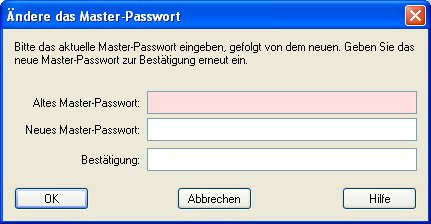
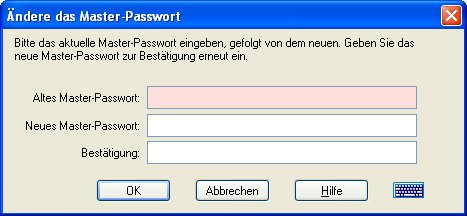
German help file for 3.18

diff --git a/pwsafe/pwsafe/help/pwsafeDE/html/entering_pwd.html b/pwsafe/pwsafe/help/pwsafeDE/html/entering_pwd.html
@@ -11,7 +11,15 @@
 <object id="popup" type="application/x-oleobject" classid="clsid:adb880a6-d8ff-11cf-9377-00aa003b7a11"> </object>
 <!-- Popup Source File -->
 <h2>Benutzernamen, Passw&ouml;rter und Gruppen</h2>
-<img alt="Eintrag bearbeiten" src="images/edit_view_entry.jpg">
+<p>Die Eingabe von Benutzernamen, Passw&ouml;rter und Gruppen, zusammen mit den dazugeh&ouml;rigen Parametern, erfolgt &uuml;ber mehrere Reiter:
+<ul>
+  <li><i>Basis</i></li>
+  <li><i>Zus&auml;tzlich</i></li>
+  <li><i>Datum und Uhrzeit</i></li>
+  <li><i>Passwortrichtlinie</i></li>
+</ul>
+Die wichtigsten Elemente sind im <b>Reiter <i>Basis</i></b> zusammengefasst.</p>
+<img alt="Eintrag bearbeiten: Basis" src="images/edit_view_entry_base.jpg">
 <p>Folgende Informationselemente geh&ouml;ren zu jedem Passworteintrag:</p>
 <ul>
   <li><b>Gruppe</b>: ein Name zum Zusammenfassen aller artverwandten Eintr&auml;ge</li>
@@ -19,10 +27,9 @@
   <li><b>Benutzername</b>: der eigentliche Benutzername</li>
   <li><b>Passwort</b>: das dazugeh&ouml;rige Passwort</li>
   <li><b>Notizen</b>: allgemeine Notizen zu diesem Eintrag</li>
+  <li><small>Nur das <b>Titel</b>- und das <b>Passwort</b>feld sind Pflichtfelder. Alle anderen sind optional.</small></li>
 </ul>
-Zus&auml;tzlich k&ouml;nnen noch folgende Felder verwendet werden (sichtbar nach Dr&uuml;cken der Taste "Mehr &gt;&gt;"):<br>
-<br>
-<img alt="Extra Felder" src="images/edit_view_entry_more.jpg"><br>
+<p>In diesem Reiter kann auch die URL eingestellt werden:</p>
 <ul>
   <li><b>URL:</b> Die URL die sich auf diesen Eintrag bezieht. Wenn dieses Feld nicht leer ist, dann ist die "Gehe zu" Option aktiviert.
 Wenn kein Protokoll angegeben ist, wird "http://" angenommen (z.B. "www.foo.net" ist gleich mit "http://www.foo.net").
@@ -30,59 +37,63 @@ Der nachstehende Hinweis beschreibt die Funktionsweise in allen Einzelheiten.</l
   <li><b>Los:</b> Vorausgesetzt das Feld URL ist nicht leer, bewirkt ein Dr&uuml;cken dieser Taste das der Browser zu der eingegebenen Adresse geht. Wenn Sie die Taste <i>Los</i> zusammen mit der Strg Taste dr&uuml;cken, wird nach dem &Ouml;ffnen des Browsers auch die Autom.Eingabe ausgef&uuml;hrt.</li>
 </ul>
 <hr>
-<ul>
-  <small><b>Die nachfolgenden Hinweise beschreiben das Verhalten der URL-Eingabe genauer:</b></br>
-  </small><li><small>Standardm&auml;&szlig;ig wird <b>Password Safe</b> den Browser verwenden, welchen Ihr PC in der Regel zum &ouml;ffnen von Internetseiten hernimmt. Wenn erw&uuml;nscht, k&ouml;nnen Sie einen <i>alternativen Browser</i> angeben durch Angabe von '[alt]' in eckigen Klammern vor der URL, z.B. "[alt]http://www.foo.net". Dies ist n&uuml;tzlich, wenn der Standardbrowser Firefox ist, und Sie w&uuml;nschen aber auf eine Seite zuzugreifen, die am besten mit dem Internet Explorer funktioniert. Den alternativen Browser k&ouml;nnen Sie konfigurieren im <b><a href="misc_tab.html#AltBrowser">Verwalten-&gt;Optionen-&gt;Verschiedenes</a></b> Fensterdialog.</small></li>
-  <li><small>Sie k&ouml;nnen auch eine Emailadresse wie z.B. mailto:josef@irgendwo.com f&uuml;r die URL festlegen. In diesem Falle w&uuml;rde die Standardmailanwendung aufgerufen werden mit der "Gehe zu" Aktion.</small></li>
-  <li><small>Wenn '{alt}' in geschweiften Klammern vor der URL gesetzt wird, dann wird es 'wie-es-ist' dem alternativen Browser &uuml;bergeben, ohne dass 'http://' hinzugef&uuml;gt wird, wenn kein Protokoll definiert ist. Die ist dann sinnvoll, wenn der alternative Browser eine Anwendung mit Fernzugriff ist, z.B. ein SSH Client. [ssh] w&uuml;rde denselben Effekt haben.<br></small></li>
-  <li><small>Wenn '[autotype]' vor der URL steht, wird Password Safe nach der Anzeige und Aktivierung des Browsers die Funktion Autom.Eingabe ausf&uuml;hren. Wenn im Feld Autom.Eingabe nichts eingegeben ist, wird der standardm&auml;&szlig;ige Wert eingesetzt.<br></small></li>
-</ul>
+<ul><small>
+  <b>Die nachfolgenden Hinweise beschreiben das Verhalten der URL-Eingabe genauer:</b>
+  <li>Standardm&auml;&szlig;ig wird <b>Password Safe</b> den Browser verwenden, welchen Ihr PC in der Regel zum &ouml;ffnen von Internetseiten hernimmt. Wenn erw&uuml;nscht, k&ouml;nnen Sie einen <i>alternativen Browser</i> angeben durch Angabe von '[alt]' in eckigen Klammern vor der URL, z.B. "[alt]http://www.foo.net". Dies ist n&uuml;tzlich, wenn der Standardbrowser Firefox ist, und Sie w&uuml;nschen aber auf eine Seite zuzugreifen, die am besten mit dem Internet Explorer funktioniert. Den alternativen Browser k&ouml;nnen Sie konfigurieren im Dialogfenster <b><a href="misc_tab.html#AltBrowser">Verwalten-&gt;Optionen-&gt;Verschiedenes</a></b>.</li>
+  <li>Sie k&ouml;nnen auch eine Emailadresse wie z.B. mailto:josef@irgendwo.com f&uuml;r die URL festlegen. In diesem Falle w&uuml;rde die Standardmailanwendung aufgerufen werden mit der "Gehe zu" Aktion.</li>
+  <li>>Wenn '{alt}' in geschweiften Klammern vor der URL gesetzt wird, dann wird es 'wie-es-ist' dem alternativen Browser &uuml;bergeben, ohne dass 'http://' hinzugef&uuml;gt wird, wenn kein Protokoll definiert ist. Die ist dann sinnvoll, wenn der alternative Browser eine Anwendung mit Fernzugriff ist, z.B. ein SSH Client. [ssh] w&uuml;rde denselben Effekt haben.<br></li>
+  <li>Wenn '[autotype]' vor der URL steht, wird Password Safe nach der Anzeige und Aktivierung des Browsers die Funktion Autom.Eingabe ausf&uuml;hren. Wenn im Feld Autom.Eingabe nichts eingegeben ist, wird der standardm&auml;&szlig;ige Wert eingesetzt.<br></li>
+</small></ul>
 <hr>
+<h3>Reiter <i>Zus&auml;tzlich</i></h3>
+<img alt="Eintrag bearbeiten: Zus&auml;tzlich" src="images/edit_view_entry_add.jpg">
 <ul>
-  <li><b>Autom. Eingabe:</b> Wenn dieses Feld nicht leer ist, wird dessen Inhalt den standardm&auml;&szlig;igen Inhalt f&uuml;r das 'automatische Eingeben' ersetzen.
-F&uuml;r mehr Information, siehe Hilfe zu "<a href="autotype.html">Autom. Eingabe</a>".</li>
+  <li><b>Autom. Eingabe:</b> Wenn dieses Feld nicht leer ist, wird dessen Inhalt den standardm&auml;&szlig;igen Inhalt f&uuml;r das 'automatische Eingeben' ersetzen. F&uuml;r mehr Information, siehe Hilfe zu "<a href="autotype.html">Autom. Eingabe</a>".</li>
   <li><b>Ausf&uuml;hren:</b> Wenn dieses Feld nicht leer ist, wird dessen Inhalt bei der Aktion 'Ausf&uuml;hren' als Kommando dem Betriebssystem &uuml;bergeben. Es k&ouml;nnen Variablen mit &uuml;bergeben werden. F&uuml;r mehr Information, siehe Hilfe zu "<a href="execute_string.html">Ausf&uuml;hren</a>".</li>
-  <li><b>Datum/Zeit Information:</b> Dieses NUR-Lesen Feld h&auml;lt die Information des gew&auml;hlten Eintrages zum Erstellzeitpunkt, zuletzt zugegriffen, usw. auf dem Laufenden. Diese Information wird im Fenster Eintrag Einf&uuml;gen nicht angezeigt.
+  <li><b>Doppelklick-Aktion:</b></li> Dies erlaubt es festzulegen welche Aktion <b>Password Safe</b> ausf&uuml;hrt, wenn Sie ein Doppelklick auf diesem Eintrag ausf&uuml;hren. Standardm&auml;&szlig;ig wird die im Dialog <a href="misc_tab.html">Verwalten-&gt;Optionen-&gt;Verschiedenes</a> festgelegte Aktion ausgef&uuml;hrt.</li>
+  <li><b>Passworthistorie:</b> Es ist m&ouml;glich <b>Password Safe</b> so zu konfigurieren, dass es sich die letzten paar Passw&ouml;rter eines Eintrages merkt. Dies kann eingestellt werden beim Erstellen des Eintrages, oder sp&auml;ter wenn Sie diesen Eintrag bearbeiten. Um die j&uuml;ngsten Passw&ouml;rter eines Eintrages zu sehen, oder die Anzahl der Passw&ouml;rter die sich <b>Password Safe</b> merkt zu &auml;ndern, dr&uuml;cken Sie auf die Taste "Passworthistorie". Dies ruft das Dialogfenster <a href="password_history.html">Passworthistorie</a> auf. Dieser Dialog zeigt die fr&uuml;heren Passw&ouml;rter und die Anzahl, wenn vorhanden, an.</li>
+</ul>
+<h3>Reiter <i>Datum und Uhrzeit</i></h3>
+<img alt="Eintrag bearbeiten: Datum und Uhrzeit" src="images/edit_view_entry_date.jpg">
+<ul>
+  <li><b>Passwortablaufdatum:</b> Um das Ablaufdatum eines Passworteintrages zu setzen, geben Sie das gew&uuml;nschte Ablaufdatum an, entweder als absoluter Tag (z.B. "25.01.2009") oder als relativer Tag zu Heute (z.B. "30 Tage") und klicken Sie auf die Taste <i>Setzen</i>. Wenn das Ablaufdatum sich n&auml;hert, wird <b>Password Safe</b> sowohl beim Start melden, dass das Passwort ge&auml;ndert werden soll, als auch den Eintrag mit einer anderen Farbe hinterlegen.<br>
+Wenn "In <i>N</i> Tage" gew&auml;hlt wurde, k&ouml;nnen Sie einen "periodischer" Ablauf bestimmen. Dies bewirkt, dass ein <b>neues</b> Ablaufdatum berechnet wird basierend auf der Anzahl festgelegten Tagen, wenn das Passwort abge&auml;ndert wird. Zum Beispiel: Sie erstellen einen Eintrag am 11ten Januar, und legen periodisch 5 Tage fest. Sie bekommen dann am 16ten Januar eine Ablaufmeldung. Wenn Sie das Passwort am 17ten Januar &auml;ndern, wird das neue Ablaufdatum am 22ten Januar sein (5 Tage nachdem das Passwort gesetzt wurde).</li>
+  <li>Um das Ablaufdatum abzustellen, klicken Sie auf <i>L&ouml;schen</i>.</li>
+  <li><b>Datum/Zeit Information:</b> Dieses NUR-Lesen Feld h&auml;lt die Information des gew&auml;hlten Eintrages zum Erstellzeitpunkt, zuletzt zugegriffen, usw. auf dem Laufenden. Diese Information wird im Dialog Eintrag Einf&uuml;gen nicht angezeigt.
 </li>
-  <li><b>Passwort g&uuml;ltig bis:</b> Um das Ablaufdatum eines Passworteintrages zu setzen, klicken Sie auf Taste 'Setzen' and geben Sie das gew&uuml;nschte Ablaufdatum an, entweder als absoluter Tag (z.B.  "25.01.2009") oder als relativer Tag zu Heute (z.B. "30 Tage"). Wenn das Ablaufdatum sich n&auml;hert, wird <b>Password Safe</b> sowohl beim Start melden, dass das Passwort ge&auml;ndert werden soll, als auch den Eintrag mit einer anderen Farbe hinterlegen.<br>
-Wenn "In <i>N</i> Tage" gew&auml;hlt wurde, k&ouml;nnen Sie einen "periodischer" Ablauf bestimmen. Dies bewirkt, dass ein <b>neues</b> Ablaufdatum berechnet wird basierend auf der Anzahl festgelegten Tagen, wenn das Passwort abge&auml;ndert wird. Zum Beispiel: Sie erstellen einen Eintrag am 11ten Januar, und legen periodisch 5 Tage fest. Sie bekommen dann am 16ten Januar eine Ablaufmeldung. Wenn Sie das Passwort am 17ten Januar &auml;ndern, wird das neue Ablaufdatum am 22ten Januar sein (5 Tage nachdem das Passwort gesetzt wurde).<br>
-    <br>
-    <div style="text-align: center;"><img alt="Dialog f&uuml;r Ablaufdatum" src="images/entry_expiry.jpg"></div>
-  </li>
-  <li>Um das Ablaufdatum abzustellen, klick auf "L&ouml;schen".</li>
 </ul>
 <div style="margin-left: 40px;">
 <hr><small><b>Hinweis: Password Safe</b> wird <b>nur</b> dann den Benutzer warnen, wenn eine der Passw&ouml;rter abgelaufen ist. Es liegt in der Verantwortung des Benutzers das Passwort zu &auml;ndern.</small>
 <hr></div>
-<p>Nur das Titel- und das Passwortfeld sind Pflichtfelder. alle anderen sind optional.</p>
+<h3>Reiter <i>Passwortrichtlinie</i></h3>
+<img alt="Eintrag bearbeiten: Passwortrichtlinie" src="images/edit_view_entry_policy.jpg">
+<p>Wenn Sie f&uuml;r einen Eintrag nicht die standardm&auml;&szlig;ig festgelegte Passwortrichtlinie (siehe hierzu <a href="password_policies.html">Verwalten-&gt;Optionen-&gt;Passwortrichtlinie</a>) benutzen wollen, k&ouml;nnen Sie nach Ausw&auml;hlen von "Verwende die Richtlinie unten:" eine eigens f&uuml;r diesen Eintrag festgelegte Passwortrichtlinie zusammenstellen.</p>
 <div class="instr">
 <h3>Erstellen eines neuen Eintrag mit Benutzername und Passwort</h3>
 <ol>
-  <li>Die Datenbank &ouml;ffnen wo der neue Eintrag rein soll</li>
-  <li>W&auml;hlen Sie im Men&uuml; <b>Bearbeiten</b> <b>Eintrag einf&uuml;gen</b> aus</li>
+  <li>Die Datenbank &ouml;ffnen wo der neue Eintrag eingef&uuml;gt werden soll</li>
+  <li>W&auml;hlen Sie im Men&uuml; <b>Bearbeiten &gt; Eintrag einf&uuml;gen</b> aus</li>
   <li>Geben Sie die notwendige Information im Dialogfenster <b>Eintrag Einf&uuml;gen</b> ein</li>
 </ol>
-<hr> <small><b>Hinweis:</b> Wenn ein Gruppenname ausgew&auml;hlt ist, und dann eine neuer Eintrag eingef&uuml;gt wird, wird f&uuml;r diesen Eintrag der Gruppenname im <b>F&uuml;ge Eintrag ein</b> Dialogfenster vorbelegt. Wenn ein neuer Name im Gruppenfeld eingegeben wird, wird diese Gruppe neu erstellt.<br>
+<hr> <small><b>Hinweis:</b> Wenn ein Gruppenname ausgew&auml;hlt ist, und dann eine neuer Eintrag eingef&uuml;gt wird, wird f&uuml;r diesen Eintrag der Gruppenname im Dialogfenster <b>F&uuml;ge Eintrag ein</b> vorbelegt. Wenn ein neuer Name im Gruppenfeld eingegeben wird, wird diese Gruppe neu erstellt.<br>
 </small>
 <hr>
 <h3>Passw&ouml;rter generieren und bearbeiten</h3>
-<p>Wenn gew&uuml;nscht, k&ouml;nnen ein eigens Passwort h&auml;ndisch im Passwortfeld eingegeben werden, oder <b>Password Safe</b> generiert eine neues Passwort auf Basis der derzeitig g&uuml;ltige <a href="password_policies.html">Passwortrichtlinien</a>.</p>
+<p>Wenn gew&uuml;nscht, k&ouml;nnen ein eigenes Passwort h&auml;ndisch im Passwortfeld eingegeben werden, oder <b>Password Safe</b> generiert eine neues Passwort auf Basis der derzeitig g&uuml;ltige <a href="password_policies.html">Passwortrichtlinien</a>.</p>
 <ol>
-  <li>Im <b>F&uuml;ge Eintrag ein</b> Dialogfenster <b>Generate</b> klicken</li>
-  <li>Wenn Sie nicht zufrieden sind mit dem Ergebnis, klicken Sie erneut <b>Generate</b>, oder geben Sie das Passwort h&auml;ndisch ein.</li>
+  <li>Im Dialogfenster <b>Eintrag Einf&uuml;gen</b> die Taste <b>Generierung</b> klicken</li>
+  <li>Wenn Sie nicht zufrieden sind mit dem Ergebnis, klicken Sie erneut <b>Generierung</b>, oder geben Sie das Passwort h&auml;ndisch ein.</li>
 </ol>
 <hr> <small><b>Hinweise:</b>
 <ul>
   <li>Um eine Passwortrichtlinie speziell f&uuml;r den aktuellen Eintrag zu definieren, markiere <b>Richtlinie &uuml;bergehen</b>.
 Diese Richtlinie wird zu diesem Eintrag abgespeichert, und wird standardm&auml;&szlig;ig f&uuml;r diesen Eintrag verwendet, wenn ein neues Passwort generiert wird. Diese M&ouml;glichkeit ist vor allem dann n&uuml;tzlich an Standorte die bestimmte Anforderungen an Passw&ouml;rter haben die nicht mit Ihren Standardanforderungen &uuml;bereinstimmen.</li>
-  <li>Um die nicht standardm&auml;&szlig;ige Passwortrichtlinie eines Eintrages zu sehen, sollten Sie die Taste Umschalten halten bevor Sie auf <b>Generate</b> dr&uuml;cken.</li>
+  <li>Um die nicht standardm&auml;&szlig;ige Passwortrichtlinie eines Eintrages zu sehen, sollten Sie die Taste Umschalten halten bevor Sie auf <b>Generierung</b> dr&uuml;cken.</li>
   <li>Wenn das Passwort oder der Benutzername diakritische Zeichen (wie "&acute;", "`", "^", "&uml;" oder "~" zum Beispiel) gefolgt von einem Buchstaben der &uuml;ber die Tastatur ge&auml;ndert werden kann ("a" zum Beispiel), muss das Passwort so "[~][space][space][a]" eingegeben werden (Dies trifft auf nicht-US Tastaturen zu).</li>
   <li>Wenn Sie ein "single sign-on" System einsetzen das erlaubt dasselbe Passwort f&uuml;r verschiedene Maschinen/Server/Anwendungen usw. gleichzeitig einzusetzen, kann mit <b>Password Safe</b> so ein Eintrag entsprechend verwaltet werden. Wenn Sie ein Passwort &auml;ndern, werden alle anderen gleichverwandte Passw&ouml;rter mit ge&auml;ndert. Diese werden "Alias" Eintr&auml;ge genannt, und wird im Detail <a href="aliases.html">hier</a> beschrieben.</li>
 </ul>
 </small>
 <hr>
-<h3>Passworthistorie</h3>
-Es ist m&ouml;glich <b>Password Safe</b> so zu konfigurieren, dass es sich die letzten paar Passw&ouml;rter eines Eintrages merkt. Dies kann eingestellt werden beim Erstellen des Eintrages, oder sp&auml;ter wenn Sie diesen Eintrag bearbeiten. Um die j&uuml;ngsten Passw&ouml;rter eines Eintrages zu sehen, oder die Anzahl der Passw&ouml;rter die sich <b>Password Safe</b> merkt zu &auml;ndern, dr&uuml;cken Sie auf die Taste "Passworthistorie". Dies ruft den Fensterdialog <a href="password_history.html">Passworthistorie</a> auf. Dieses Fenster zeigt die fr&uuml;heren Passw&ouml;rter und die Anzahl, wenn vorhanden, an.
 <h3>Bestehende Eintr&auml;ge bearbeiten</h3>
 <ol>
   <li>W&auml;hlen Sie den Passworteintrag zum Bearbeiten in der Liste aus</li>
@@ -98,7 +109,7 @@ Es ist m&ouml;glich <b>Password Safe</b> so zu konfigurieren, dass es sich die l
 </ol>
 <h3>Gruppenname bearbeiten</h3>
 <ul>
-  <li>Rechtsklick auf die Gruppe and w&auml;hlen Sie <b>Gruppe umbenennen</b> aus der Liste aus</li>
+  <li>Rechtsklick auf die Gruppe und w&auml;hlen Sie <b>Gruppe umbenennen</b> aus der Liste aus</li>
 </ul>
 <hr> <small><b>Hinweis:</b> Gruppennamen k&ouml;nnen verschachtelt werden, durch Setzen eines Gruppennamens in einer anderen Gruppe.<br>
 </small>

diff --git a/pwsafe/pwsafe/help/pwsafeDE/html/change_combo.html b/pwsafe/pwsafe/help/pwsafeDE/html/change_combo.html
@@ -12,7 +12,7 @@
 <!-- Popup Source File -->
 <h2>Master-Passw&ouml;rter &auml;ndern</h2>
 <img alt="Key Change dialog box" src="images/combo_change.jpg">
-<p>Um ein Master-Passwort ("Safe Combination") zu &auml;ndern, muss zuerst die Datenbank, deren Passwort ge&auml;ndert werden soll, ge&ouml;ffnet werden. Einmal ge&ouml;ffnet, gehen Sie zum Men&uuml; <b>Verwalten</b> und w&auml;hlen Sie <b>Master-Passwort &auml;ndern</b> aus. Sie sollten das derzeitige und dann zweimal das neue Master-Passwort zur Best&auml;tigung eingeben.</p>
+<p>Um ein Master-Passwort ("Safe Combination") zu &auml;ndern, muss zuerst die Datenbank, deren Passwort ge&auml;ndert werden soll, ge&ouml;ffnet werden. Einmal ge&ouml;ffnet, gehen Sie zum Men&uuml; <b>Verwalten</b> und w&auml;hlen Sie <b>Master-Passwort &auml;ndern</b> aus. Sie sollten das derzeitige und dann zweimal das neue Master-Passwort zur Best&auml;tigung eingeben. Zur Eingabe kann auch die virtuelle Tastatur verwendet werden.</p>
 <p><b>Password Safe</b> hat eine eingebaute Pr&uuml;fung auf vermeintlich schwache Passw&ouml;rter. Im Allgemeinen sollte ein Master-Passwort (wie jedes andere Passwort auch) aus einem Mix von Buchstaben und mindestens einer Ziffer oder einem <a href="JavaScript:popup.TextPopup(strSpecialChars,popFont,9,9,-1,-1)">Speziellen Zeichen</a> (wie die Zeichen, die sich &uuml;ber Ziffern auf der Tastatur befinden) bestehen. Wenn das Programm ein eingegebenes Master-Passwort als schwach einstuft, wird eine Best&auml;tigung angefordert. Sie haben dann die Wahl das original eingegebene (schwache) Master-Passwort anzunehmen, oder ein Neues einzugeben.
 </p>
 <hr> <small><b>Notes:<br>
@@ -28,7 +28,8 @@ Dies wurde im Konzept bewusst so entschieden, weil jede Art Passwortwiederherzus
 <br>
 <br>
 <object type="application/x-oleobject" classid="clsid:1e2a7bd0-dab9-11d0-b93a-00c04fc99f9e">
- <param name="Keyword" value="Master-Passwort &auml;ndern">
+  <param name="Keyword" value="Master-Passwort &auml;ndern">
+  <param name="Keyword" value="Virtuelle Tastatur">
 </object>
 </body>
 </html>

diff --git a/pwsafe/pwsafe/help/pwsafeDE/html/password_history.html b/pwsafe/pwsafe/help/pwsafeDE/html/password_history.html
@@ -11,7 +11,7 @@
 <object id="popup" type="application/x-oleobject" classid="clsid:adb880a6-d8ff-11cf-9377-00aa003b7a11"> </object>
 <!-- Popup Source File -->
 <h2>Passworthistorie</h2>
-<br>In <b>Password Safe</b> k&ouml;nnen Sie die letzten paar Passw&ouml;rter eines Eintrages zusammen mit dem Datum festhalten, an welchem die Passw&ouml;rter gesetzt wurden. Dies ist n&uuml;tzlich, um eine &Uuml;bereinstimmung des Passwortes mit den an einigen Stellen eingesetzten Passwortrichtlinien nachzuweisen, oder um ein Passwort auf eine &auml;ltere Version zur&uuml;ckzuschalten, wenn das neue Passwort (warum auch immer) nicht funktioniert. Die Passworthistorie kann mit der Taste "Passworthistorie" im Fensterdialog <a href="entering_pwd.html">Eintrag bearbeiten</a> erreicht werden.<br><br>
+<br>In <b>Password Safe</b> k&ouml;nnen Sie die letzten paar Passw&ouml;rter eines Eintrages zusammen mit dem Datum festhalten, an welchem die Passw&ouml;rter gesetzt wurden. Dies ist n&uuml;tzlich, um eine &Uuml;bereinstimmung des Passwortes mit den an einigen Stellen eingesetzten Passwortrichtlinien nachzuweisen, oder um ein Passwort auf eine &auml;ltere Version zur&uuml;ckzuschalten, wenn das neue Passwort (warum auch immer) nicht funktioniert. Die Passworthistorie kann mit der Taste "Passworthistorie" im Dialogfenster <a href="entering_pwd.html">Eintrag bearbeiten</a> erreicht werden.<br><br>
 <img alt="Passworthistorie" src="images/password_history.jpg">
 <p>Dieser Dialog stellt die letzten paar Passw&ouml;rter f&uuml;r den jeweiligen Eintrag da. Um dies anzuzeigen dr&uuml;cken Sie auf die Taste "Passworthistorie" im Eintrag bearbeiten/Einf&uuml;gen Dialog. Folgendes kann gemacht werden:</p>
 <h3>Die <i>N</i> letzten Passw&ouml;rter behalten</h3>

diff --git a/pwsafe/pwsafe/help/pwsafeDE/html/misc_tab.html b/pwsafe/pwsafe/help/pwsafeDE/html/misc_tab.html
@@ -30,15 +30,15 @@ Wenn markiert, merkt sich <b>Password Safe</b> f&uuml;r jeden Eintrag den Zeitpu
 <p>Wenn markiert, wird ein Dr&uuml;cken der Tastenkombination im Feld rechts <b>Password Safe</b> aus dem Infobereich wiederherstellen (wenn minimiert) oder sie wieder in Vordergrund bringen, soweit <b>Password Safe</b> von anderen Anwendungen verdeckt ist. Die Tastenkombination kann nur ge&auml;ndert werden, solange diese Option markiert ist.</p>
 <h3>Doppelklick-Aktion</h3>
 <p>Dies erlaubt es festzulegen welche Aktion <b>Password Safe</b> ausf&uuml;hrt, wenn Sie ein Doppelklick auf einem Eintrag ausf&uuml;hren. Standardm&auml;&szlig;ig wird das Passwort des ausgew&auml;hlten Eintrages in die Zwischenablage kopiert. Diese Aktionen stehen zur Verf&uuml;gung:</p>
-<p></p>
 <ul>
   <li>Autom. Eingabe</li>
   <li>Gehe zu URL</li>
+  <li>Gehe zu URL + Autom. Eingabe</li>
   <li>Notizen in die Zwischenablage kopieren</li>
-  <li>Passwort in die Zwischenablage kopieren</li>
   <li>Benutzername in die Zwischenablage kopieren</li>
-  <li>Zeige/&auml;ndere ausgew&auml;hlten Eintrag</li>
+  <li>Passwort in die Zwischenablage kopieren</li>
   <li>Passwort in die Zwischenablage kopieren, minimieren</li>
+  <li>Zeige/&auml;ndere ausgew&auml;hlten Eintrag</li>
 </ul>
 <p>Beachten Sie dass die letzte Aktion "Passwort in die Zwischenablage kopieren, minimieren" nicht funktioniert wie erwartet, wenn gleichzeitig die Option "Zwischenablage nach Minimieren l&ouml;schen" markiert ist im <a href="security_tab.html">Reiter Sicherheit</a>.</p>
 <h3>Autom. Eingabe</h3>

diff --git a/pwsafe/pwsafe/help/pwsafeDE/html/help_menu.html b/pwsafe/pwsafe/help/pwsafeDE/html/help_menu.html
@@ -20,7 +20,7 @@
 <h3>Password Safe Webseite besuchen...</h3>
 <p>&Ouml;ffnet die <b>Password Safe</b> <a target="newWin" href="http://pwsafe.org/">Home Page</a> im Browser.</p>
 <h3>&Uuml;ber Password Safe</h3>
-<p>Diese Option er&ouml;ffnet ein Fensterdialog mit der Versionsnummer und einem Copyright Hinweis. Ebenfalls k&ouml;nnen Sie hier nachpr&uuml;fen ob eine neuere Version von <b>Password Safe</b> vorhanden ist. Beachten Sie dass die Datenbank von <b>Password Safe</b> aus Sicherheitsgr&uuml;nden geschlossen wird bevor ein Verbindung zum Internet aufgebaut wird, um auf eine neuere Versionen abzupr&uuml;fen.</p>
+<p>Diese Option er&ouml;ffnet ein Dialogfenster mit der Versionsnummer und einem Copyright Hinweis. Ebenfalls k&ouml;nnen Sie hier nachpr&uuml;fen ob eine neuere Version von <b>Password Safe</b> vorhanden ist. Beachten Sie dass die Datenbank von <b>Password Safe</b> aus Sicherheitsgr&uuml;nden geschlossen wird bevor ein Verbindung zum Internet aufgebaut wird, um auf eine neuere Versionen abzupr&uuml;fen.</p>
 <p><img alt="Dialog &Uuml;ber Password Safe" src="images/about.jpg"></p>
 		</div>
 		<!-- Added some white space at the bottom for natural scrolling -->

diff --git a/pwsafe/pwsafe/help/pwsafeDE/html/menu_toolbar.html b/pwsafe/pwsafe/help/pwsafeDE/html/menu_toolbar.html
@@ -42,7 +42,7 @@ Zur Einfachheit beinhaltet dieses Element einer Kurzbeschreibung des jeweiligen 
       <td align="center"><img src="images/toolbar/classic/open.jpg"></td>
       <td align="center"><img src="images/toolbar/new/open.jpg"></td>
       <td align="center">X</td>
-      <td><i>&Ouml;ffnet ein Fensterdialog zum &Ouml;ffnen oder Umschalten einer Datenbank.</i></td>
+      <td><i>&Ouml;ffnet ein Dialogfenster zum &Ouml;ffnen oder Umschalten einer Datenbank.</i></td>
     </tr>
     <tr>
       <td align="center"><img src="images/toolbar/classic/save.jpg"></td>
